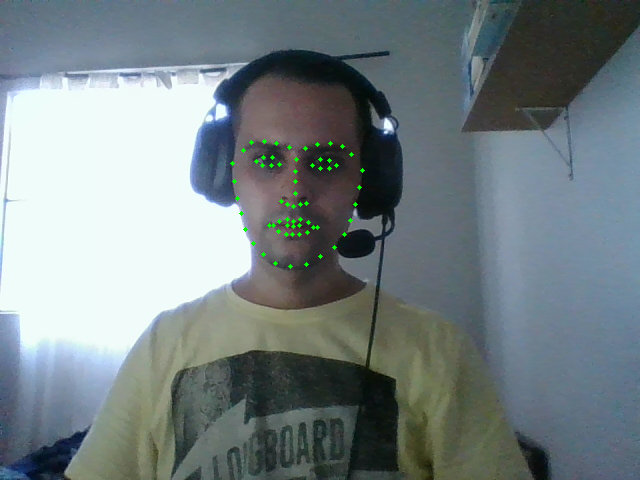
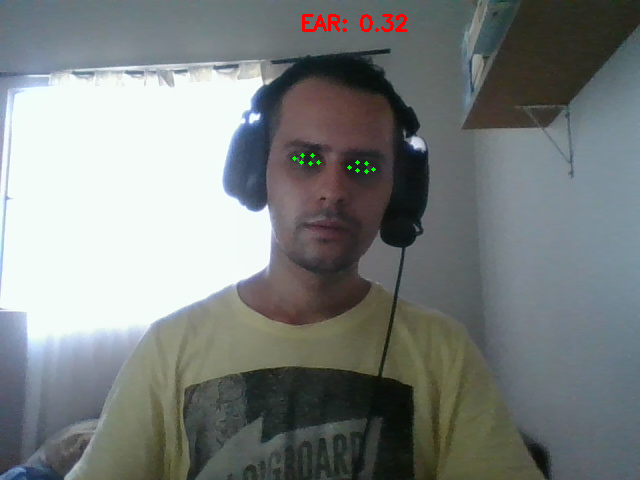
calc eye avarage ratio and generate graphic with the time serie

diff --git a/main.py b/main.py
@@ -1,7 +1,41 @@
-import cv2
+from collections import OrderedDict
 from imutils import face_utils
+from numpy import block
+from scipy.spatial import distance as dist
+import cv2
+import pickle
 import dlib
+from plot import PlotEAR
 
+def eye_aspect_ratio(eye):
+    # realiza o calculo da distancia euclidiana dos pontos verticais
+	A = dist.euclidean(eye[1], eye[5])
+	B = dist.euclidean(eye[2], eye[4])
+	# realiza o calculo da distancia euclidiana dos pontos horizontais
+	C = dist.euclidean(eye[0], eye[3])
+	
+	ear = (A + B) / (2.0 * C)
+
+	return ear
+
+# Indica proporção EAR do olho para indicar se a pessoa esta piscando
+EYE_AR_THRESH = 0.3
+# quantidade de frames que o olho deve estar abaixo do limite
+EYE_AR_CONSEC_FRAMES = 20
+
+# Contadores de quadros
+COUNTER = 0
+
+FACIAL_LANDMARKS_IDXS = OrderedDict([
+	("right_eye", (36, 42)),
+	("left_eye", (42, 48)),
+])
+
+(lStart, lEnd) = face_utils.FACIAL_LANDMARKS_IDXS["left_eye"]
+(rStart, rEnd) = face_utils.FACIAL_LANDMARKS_IDXS["right_eye"]
+
+#armazena o diretorio onde a imagem de teste será armazenada
+dir_image = "../controller_webcam/images/Foto_teste.png"
 
 # Vamos inicializar um detector de faces (HOG) para então
 # fazer a predição dos pontos da nossa face.
@@ -9,14 +43,15 @@ p = "modelo/shape_predictor_68_face_landmarks.dat"
 detector = dlib.get_frontal_face_detector()
 predictor = dlib.shape_predictor(p)
 
-#armazena o diretorio onde a imagem de teste será armazenada
-dir_image = "../controller_webcam/images/Foto_teste.png"
+#dicionario que armazena a série temporal
+data = {'ear': []}
 
 #Permite que o opencv se conecte com a camera do pc
 webcam = cv2.VideoCapture(0)
 
 #Verifia se a conexão com a camera foi estabelecida
 if webcam.isOpened():
+
     validacao, frame = webcam.read()
     
     while validacao:
@@ -26,7 +61,6 @@ if webcam.isOpened():
         # frame -> array de listas com os valores RGB de cada pixel do frame capturado pela camera
         # [[34,56,45], ... [45, 78, 23]]
         validacao, frame = webcam.read()
-
         #trasnforma de RGB -> Gray Scale
         gray = cv2.cvtColor(frame, cv2.COLOR_BGR2GRAY)
 
@@ -35,14 +69,44 @@ if webcam.isOpened():
     
         # para cada face encontrada, encontre os pontos de interesse.
         for (i, rect) in enumerate(rects):
+
+            """ (x, y, w, h) = face_utils.rect_to_bb(rect)
+            cv2.rectangle(frame, (x,y), (x+w, y+h), (0, 255,0), 2) """
             # faça a predição e então transforme isso em um array do numpy.
             shape = predictor(gray, rect)
             shape = face_utils.shape_to_np(shape)
-    
-            # desenhe na imagem cada cordenada(x,y) que foi encontrado.
-            for (x, y) in shape:
-                cv2.circle(frame, (x, y), 2, (0, 255, 0), -1)
 
+            # pega as coordenadas do olho esquerdo
+            left_eye = shape[lStart:lEnd]
+            # pega as coordenadas do olho direito
+            right_eye = shape[rStart:rEnd]
+            #realiza o calculo da proporção do olho esquerdo
+            leftEAR = eye_aspect_ratio(left_eye)
+            #realiza o calculo da proporção do olho direito
+            rightEAR = eye_aspect_ratio(right_eye)
+
+            # eye avarage ratio -> proporção média dos olhos
+            ear = (leftEAR + rightEAR) / 2
+
+            # arredondando o valor de ear para duas cadas decimais
+            ear_arredondado = round(ear, 2)
+
+            data['ear'].append(ear_arredondado)
+
+            if ear < EYE_AR_THRESH:
+                COUNTER += 1
+                if COUNTER >= EYE_AR_CONSEC_FRAMES:
+                    cv2.putText(frame, "ALERTA [FADIGA!!!]", (10,30), cv2.FONT_HERSHEY_SIMPLEX, 0.7, (0,0,255), 2)
+            else:
+                COUNTER = 0
+
+            for(name, (i,j)) in FACIAL_LANDMARKS_IDXS.items():
+                # desenhe na imagem cada cordenada(x,y) referentes aos marcos do FACIAL_LANDMARKS_IDXS.
+                for (x, y) in shape[i:j]:
+                    cv2.circle(frame, (x, y), 2, (0, 255, 0), -1)
+
+            cv2.putText(frame, "EAR: {:.2f}".format(ear), (300, 30),
+			cv2.FONT_HERSHEY_SIMPLEX, 0.7, (0, 0, 255), 2)
  
         cv2.imshow("Controller Webcam", frame)
 
@@ -52,6 +116,9 @@ if webcam.isOpened():
         
         # 27 -> numero da tecla ESC
         if key == 27:
+            save_ear = pickle.dumps(data['ear'])
+            teste = PlotEAR(save_ear)
+            teste.PlotEAR()
             #salva um frame da camera na pasta images
             cv2.imwrite(dir_image, frame)
             break

diff --git a/plot.py b/plot.py
@@ -1,0 +1,21 @@
+import pickle
+import matplotlib.pyplot as plt
+
+class PlotEAR: 
+
+    def __init__(self, saveEAR):
+        self.saveEAR = saveEAR
+
+    def PlotEAR(self):
+        unpickle = pickle.loads(self.saveEAR)
+
+
+        plt.plot(unpickle)
+        plt.xlim([0,100])
+        plt.ylim([0,0.5])
+        plt.autoscale = True
+        plt.xlabel("Time")
+        plt.ylabel("EAR")
+        plt.title("Eye Avarage Ratio")
+        plt.show()
+

diff --git a/README.md b/README.md
@@ -11,18 +11,18 @@ pré treinados.
 - [@willianrodrigo](https://github.com/willHub99)
 
 
-## Instalação
+## Instalação de bibliotecas
 
 Clone o projeto
 
 ```bash
-  git clone 
+  git clone https://github.com/willHub99/facial_landmark.git
 ```
 
 Entre no diretório do projeto
 
 ```bash
-  cd controller_webcam
+  cd your-path/controller_webcam
 ```
 
 Instale as dependências
@@ -32,7 +32,23 @@ Instale as dependências
 ```
 
 ```bash
+  pip install scipy
+```
+
+```bash
   pip install opencv-python
+```
+
+```bash
+  pip install pickle5
+```
+
+```bash
+  pip install imutils
+```
+
+```bash
+  pip install matplotlib
 ```
 
 ### instalar a biblioteca dlib
@@ -84,6 +100,6 @@ Inicie a Aplicação
 
 ## Referência
 
- - [facial landmarks recognition](https://github.com/italojs/facial-landmarks-recognition)
+ - [Mapeamento facial (landmarks) com Dlib + python](https://medium.com/brasil-ai/mapeamento-facial-landmarks-com-dlib-python-3a200bb35b87)
  - [Como Controlar WebCam com Python - Introdução ao OpenCV](https://www.youtube.com/watch?v=r8Qg3NfdiHc&ab_channel=HashtagPrograma%C3%A7%C3%A3o)
- 
+ - [Eye blink detection with OpenCV, Python, and dlib](https://pyimagesearch.com/2017/04/24/eye-blink-detection-opencv-python-dlib/)
